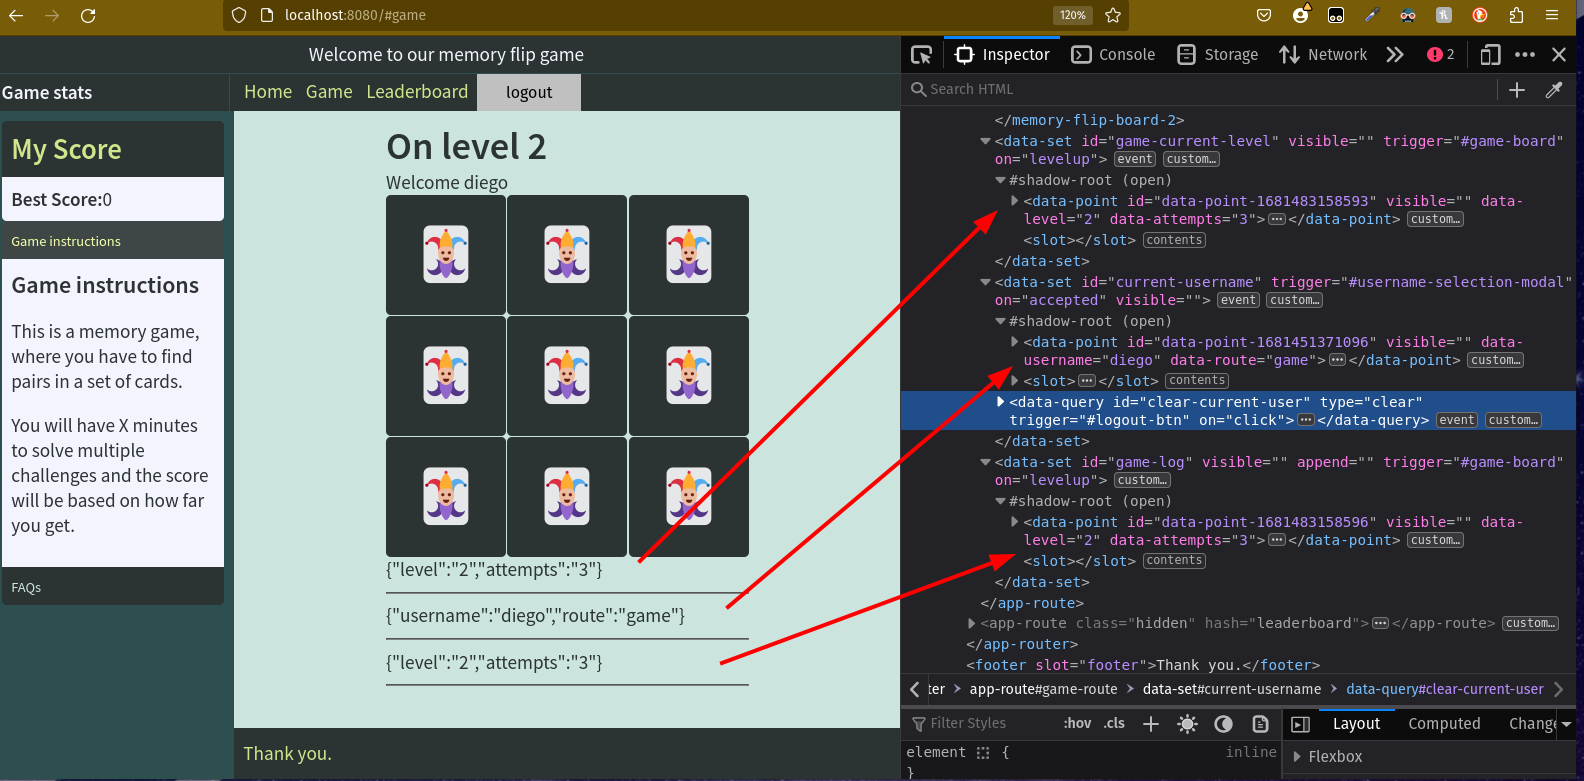
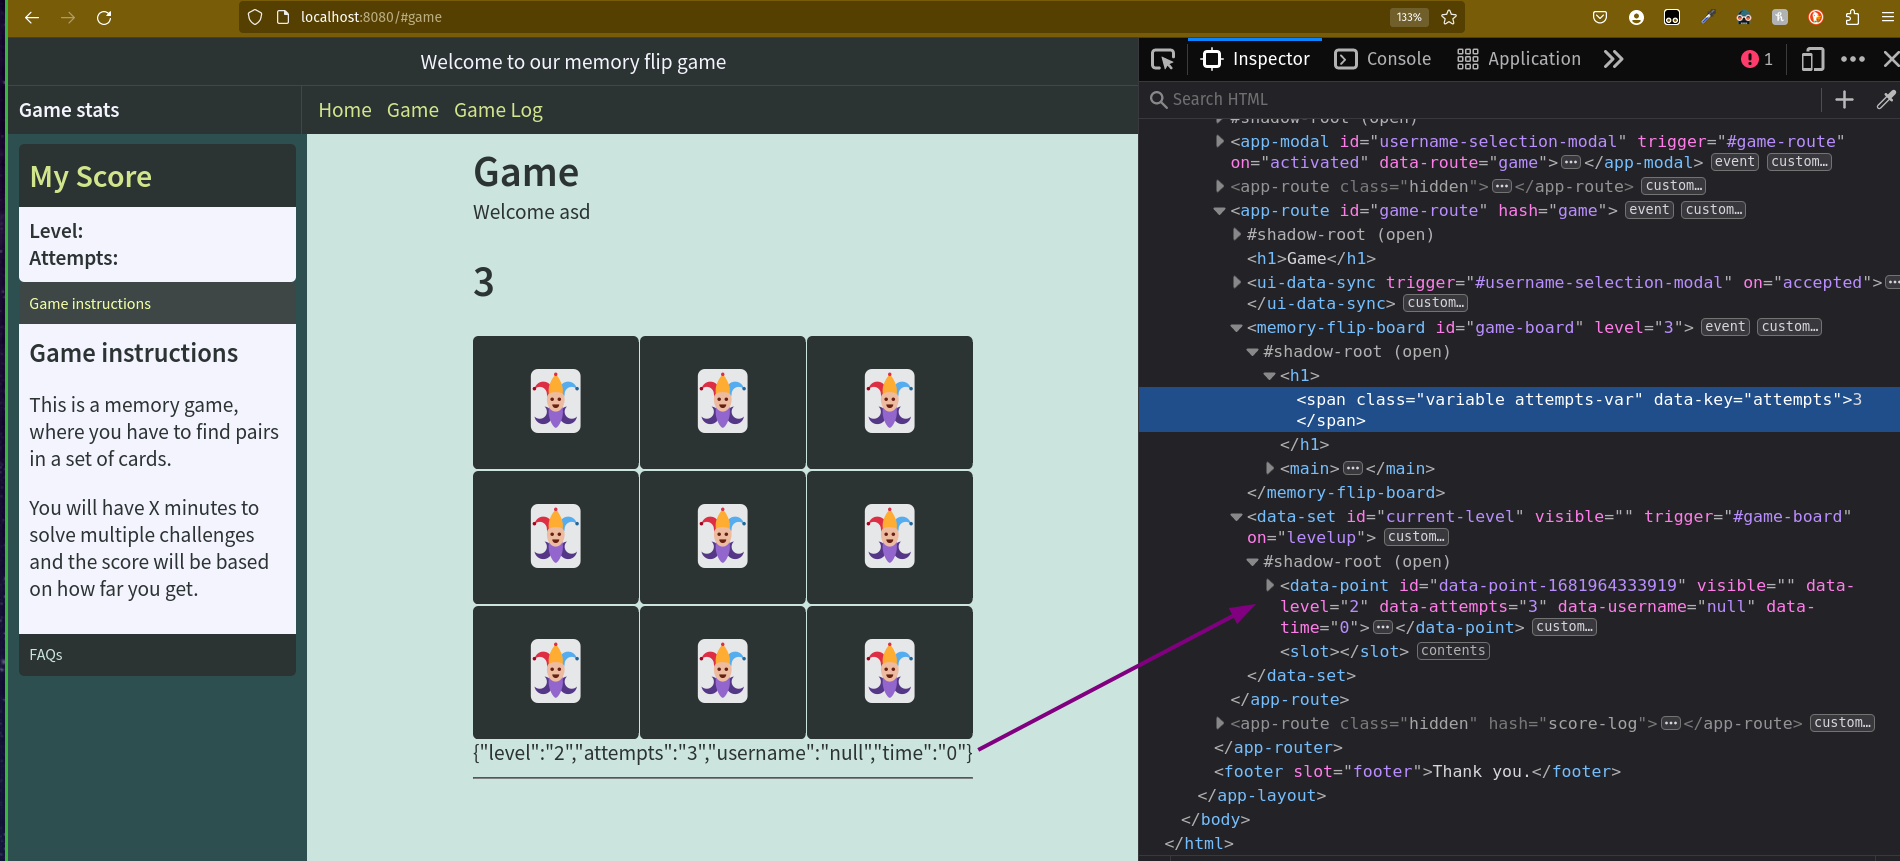
fixing typos and small erros on docs

diff --git a/web-components/index.html b/web-components/index.html
@@ -5,7 +5,7 @@
   <meta charset="UTF-8">
   <meta http-equiv="X-UA-Compatible" content="IE=edge">
   <meta name="viewport" content="width=device-width, initial-scale=1.0">
-  <title>Document</title>
+  <title>[demo] Reimagine The Web With Native Web Components</title>
   <style>
     nav a {
       color: var(--main-tone);
@@ -89,7 +89,7 @@
           sessionPresent(event) {
             const sessionDataset = document.querySelector('#current-username')
             const dataPoint = sessionDataset.getItem('current-username')
-            if(!dataPoint) return true
+            if (!dataPoint) return true
             // const dataPoints = Array.from(sessionDataset.children).filter(tag => tag.tagName === 'data-point')
             const username = dataPoint.dataset.username
             return !username
@@ -98,7 +98,8 @@
       </script>
 
       <!-- <event-source id="prompt-authentication" trigger="#game-route" on="activated" ></event-source> -->
-      <event-source id="prompt-authentication" trigger="#game-route" on="activated" filters="sessionPresent"></event-source>
+      <event-source id="prompt-authentication" trigger="#game-route" on="activated"
+        filters="sessionPresent"></event-source>
 
       <script>
         document
@@ -125,7 +126,7 @@
           time="30s" preview></memory-flip-board>
 
         <event-source id="on-load" trigger="window" on="load"></event-source>
-        
+
         <event-group id="level-group">
           <event-source id="query-level" trigger="#get-current-level" on="get"></event-source>
           <event-source id="level-updated" trigger="#current-level" on="updated"></event-source>
@@ -133,8 +134,8 @@
 
 
         <event-group id="current-session">
-          <event-source id="" trigger="#current-username" on="updated" ></event-source>
-          <event-source id="" trigger="#get-current-username" on="get" ></event-source>
+          <event-source id="" trigger="#current-username" on="updated"></event-source>
+          <event-source id="" trigger="#get-current-username" on="get"></event-source>
         </event-group>
 
         <data-store id="session-store">
@@ -143,16 +144,16 @@
             <data-query id="get-current-level" type="get" trigger="#on-load" on="data"></data-query>
           </data-set>
 
-          <data-set id="current-username" trigger="#username-selection-modal" on="accepted" >
+          <data-set id="current-username" trigger="#username-selection-modal" on="accepted">
             <data-query id="get-current-username" type="get" trigger="#on-load" on="data"></data-query>
             <data-query id="clear-current-user" type="clear" trigger="#log-out-btn" on="click">
           </data-set>
 
         </data-store>
-        
+
         <event-group id="all-game-logs">
-          <event-source trigger="#list-game-logs" on="list" ></event-source>
-          <event-source trigger="#game-log" on="updated" ></event-source>
+          <event-source trigger="#list-game-logs" on="list"></event-source>
+          <event-source trigger="#game-log" on="updated"></event-source>
         </event-group>
 
         <data-store id="logs-store">
@@ -160,19 +161,6 @@
             <data-query id="list-game-logs" type="list" trigger="#on-load" on="data"></data-query>
           </data-set>
         </data-store>
-
-
-        <app-modal trigger="#game-board" on="levelup">
-          <ui-data-sync slot="title" trigger="#scores" on="data">
-            <h1>You did it <span name="username"></span>!!</h1>
-          </ui-data-sync>
-          <ui-data-sync slot="main" trigger="#scores" on="data">
-            <section>
-              <b>Level:</b><span data-key="level"></span><br>
-              <b>Attempts:</b><span data-key="attempts"></span><br>
-            </section>
-          </ui-data-sync>
-        </app-modal>
 
       </app-route>
 
@@ -202,6 +190,15 @@
 
   </app-layout>
 
+  <!-- <style>
+    :root {
+      --main-tone: #d1e68c;
+      --back-tone: #2C3333;
+      --second-tone: #2E4F4F;
+      --third-tone: #CBE4DE;
+      --text-tone: #f4f4ff;
+    }
+  </style> -->
 </body>
 
 </html>

diff --git a/docs/lesson-2/section-3/steps.md b/docs/lesson-2/section-3/steps.md
@@ -18,8 +18,8 @@ When we pass a level, `memory-flip-board` will emit the `levelup` event, we can 
 
 Create a `data-set` tag under the `memory-flip-board`, we will give it and id and we will set up the `trigger` to the `memory-flip-board` id, and the `on` attribute will be `levelup`:
 ```html
-   <memory-flip-board id="game-board" level="2"  preview></memory-flip-board>
-   ...
+   <!-- add dataset under this tag <memory-flip-board id="game-board" level="2"  preview></memory-flip-board> -->
+
    <data-set id="current-level" visible trigger="#game-board" on="levelup"></data-set>
 ```
 The `visible` attibute is for dev pourposes, it will allow us to see a changelog of the value.
@@ -35,25 +35,12 @@ the field `id` and `data-__id` is automatically added if none provided, this is 
 
 Data sets emit an `updated` event when something change.
 lets go back to the `app-route` for the `#games` route and lets dynamically update the level on the UI.
+
+Inside `app-route#game-route`, lets add a new `ui-data-sync` to keep track of the current level:
 ```html
-   change this ...
-   <app-route id="game-route" hash="game">
-     <h1>I'm Game</h1>
-     <ui-data-sync trigger="#username-selection-modal" on="accepted" >
-       <p>Welcome <span data-key="username"></span></p>
-     </ui-data-sync>
-   
-   for this ...
-    <app-route id="game-route" hash="game">
-
-        <!-- This is new -->
-        <ui-data-sync trigger="#current-level" on="updated">
-          <h1>On level <span data-key="level">1</span></h1>
-        </ui-data-sync>
-
-        <ui-data-sync trigger="#username-selection-modal" on="accepted">
-          <p>Welcome <span data-key="username">user</span></p>
-        </ui-data-sync>
+  <ui-data-sync trigger="#current-level" on="updated">
+    <h1>On level <span data-key="level">1</span></h1>
+  </ui-data-sync>
   ...
 ```
 
@@ -171,19 +158,18 @@ This component will handle the heavy lifting of setting up IndexedDB and keeping
 Lets see it in action!
 
 
-Create a `data-store` tag with an id of `session-store` and move the `current-username` and `current-level` data sets inside it. Data store will only interact with children data sets 
+Create a `data-store` tag with an id of `session-store` and move the `#current-username` and `#current-level` data sets inside it. Data store will only interact with children data sets 
 
 
-and move the `#current-username` and `#current-level` data sets inside.
 ```html
 ...
 <data-store id="session-store">
 
-  <!-- current session dataset -->
+  <!-- existing session dataset -->
   <data-set id="current-level" trigger="#game-board" on="levelup">
     ...
 
-  <!-- current username dataset -->
+  <!-- existing username dataset -->
   <data-set id="current-username" trigger="#username-selection-modal" on="accepted" visible>
     ...
 
@@ -203,7 +189,7 @@ And create another `data-store` for the `#score-log` remember this new component
 ...
 ```
 
-After this, go to the browser refresh the app, provide a username and open [devtools]() go to storage, and indexeddb. There you should see an entry with the key `session-store_current-username` the value is a json wich contains the username you provided.
+After this, go to the browser refresh the app, provide a username and open devtools go to storage, and indexeddb. There you should see an entry with the key `session-store_current-username` the value is a json wich contains the username you provided.
 ![indexeddb screenshot](../../assets/indexeddb-1.png)
 
 
@@ -384,7 +370,6 @@ Here we want to add the `ui-data-sync` component around the `div` that contain t
         <!-- add <span data-key="xxx"> to let ui-data-sync know what value to replace -->
         <b>Level:</b><span data-key="level"></span><br>
         <b>Attempts:</b><span data-key="attempts"></span><br>
-        <b>Username:</b><span data-key="username"></span><br>
       </div>
     </ui-data-sync>
 
@@ -408,10 +393,8 @@ Remember `data-key` attribute or `name` attribute will be used to let the ui com
 
 On the score-log route, lets replace its content with this:
 ```html
-<app-route hash="score-log">
+<!--  add the ui-data-repeat inside <app-route hash="score-log"> tag -->
   ...
-
-
 
   <h1>Game log</h1>
   <hr>
@@ -435,9 +418,8 @@ On the score-log route, lets replace its content with this:
   </ui-data-repeat>
 
 
-
 ...
-</app-route>
+<!-- </app-route> -->
 ```
 
 Lets test on the browser!!

diff --git a/docs/lesson-2/section-1/steps.md b/docs/lesson-2/section-1/steps.md
@@ -3,7 +3,9 @@
 
 Before we begin, lets start with a brand new `index.html`
 lets delete everything we added inside the `body` tag.
-your `index.html` should look like this:
+
+
+Your `index.html` should look like this:
 ```html
 <!DOCTYPE html>
 <html lang="en">
@@ -57,7 +59,7 @@ Let's fill the `header`, `left-header`, `left-menu`, `top-menu` and `footer` slo
   </app-layout>
 ```
 
-Now, on the left-content, lets add some components inside the `app-layout` - a `plain-card` on top and an `app-accordion` below:  
+Now, on the left-content, lets add some components inside the `app-layout` - a `plain-card` on top and an `app-accordion` below, lets wrap it in a `section` tag and lets assign the `left-content` slot:  
 ```html
    ...
 
@@ -66,7 +68,6 @@ Now, on the left-content, lets add some components inside the `app-layout` - a `
       <app-accordion></app-accordion>
     </section>
 
-    <footer slot="foother">Thank you.</footer>
     ...
 ```
 
@@ -234,7 +235,7 @@ Now, if you test in your browser, you should be able to navigate and see page ch
 This `app-route`, when the hash is matched, it will display its content and it will emit the `activated` event.
 
 Let's see this in action by adding an `app-modal` that asks for a username every time we navigate to the `Game` page.
-fFrst, let's add an `id` attribute to the game route:
+First, let's add an `id` attribute to the game route:
 ```html
   <!-- add an id -->
   <app-route id="game-route" hash="game">

diff --git a/docs/workshop.md b/docs/workshop.md
@@ -3,17 +3,6 @@
 The goal of this lab is to showcase web components as an option when creating web application, with a focus on simplicity and reusability. 
 
 
-## Prerequisites
----
-1. [AWS Account](https://aws.amazon.com/free/)
-2. [Text editor or IDE - like Cloud9 ](https://aws.amazon.com/cloud9/)
-3. [NodeJS](https://nodejs.org/en)
-4. Basic understanding of HTML, JavaScript and CSS
-
-## Stage link url
-[js lib](https://cdn.example.invalid/main.js)
-
-
 # SetUp
 1. Run the following command - `npx dwck project web-components-app` - and hit `y` when asked to confirm. This will deploy the project structure for our lab into this folder and it will create the `web-components-app` (feel free to change the name of the project). 
 2. Now change directory into the `web-components-app` folder and run `npm install -D`

diff --git a/docs/lesson-2/lesson-2.md b/docs/lesson-2/lesson-2.md
@@ -1,6 +1,6 @@
 # Lesson 2: Composing apps with Web Components
 
-In this Lesson, we are going to create [an amazing game](https://TODO url to end version of game) using only web components. Some provided by the lab, some that we are about to create.
+In this Lesson, we are going to create [an amazing game](https://cdn.example.invalid/#game) using only web components. Some provided by the lab, some that we are about to create.
 
 
 Here we will explore diferent type of components based on their use and functionallity.
